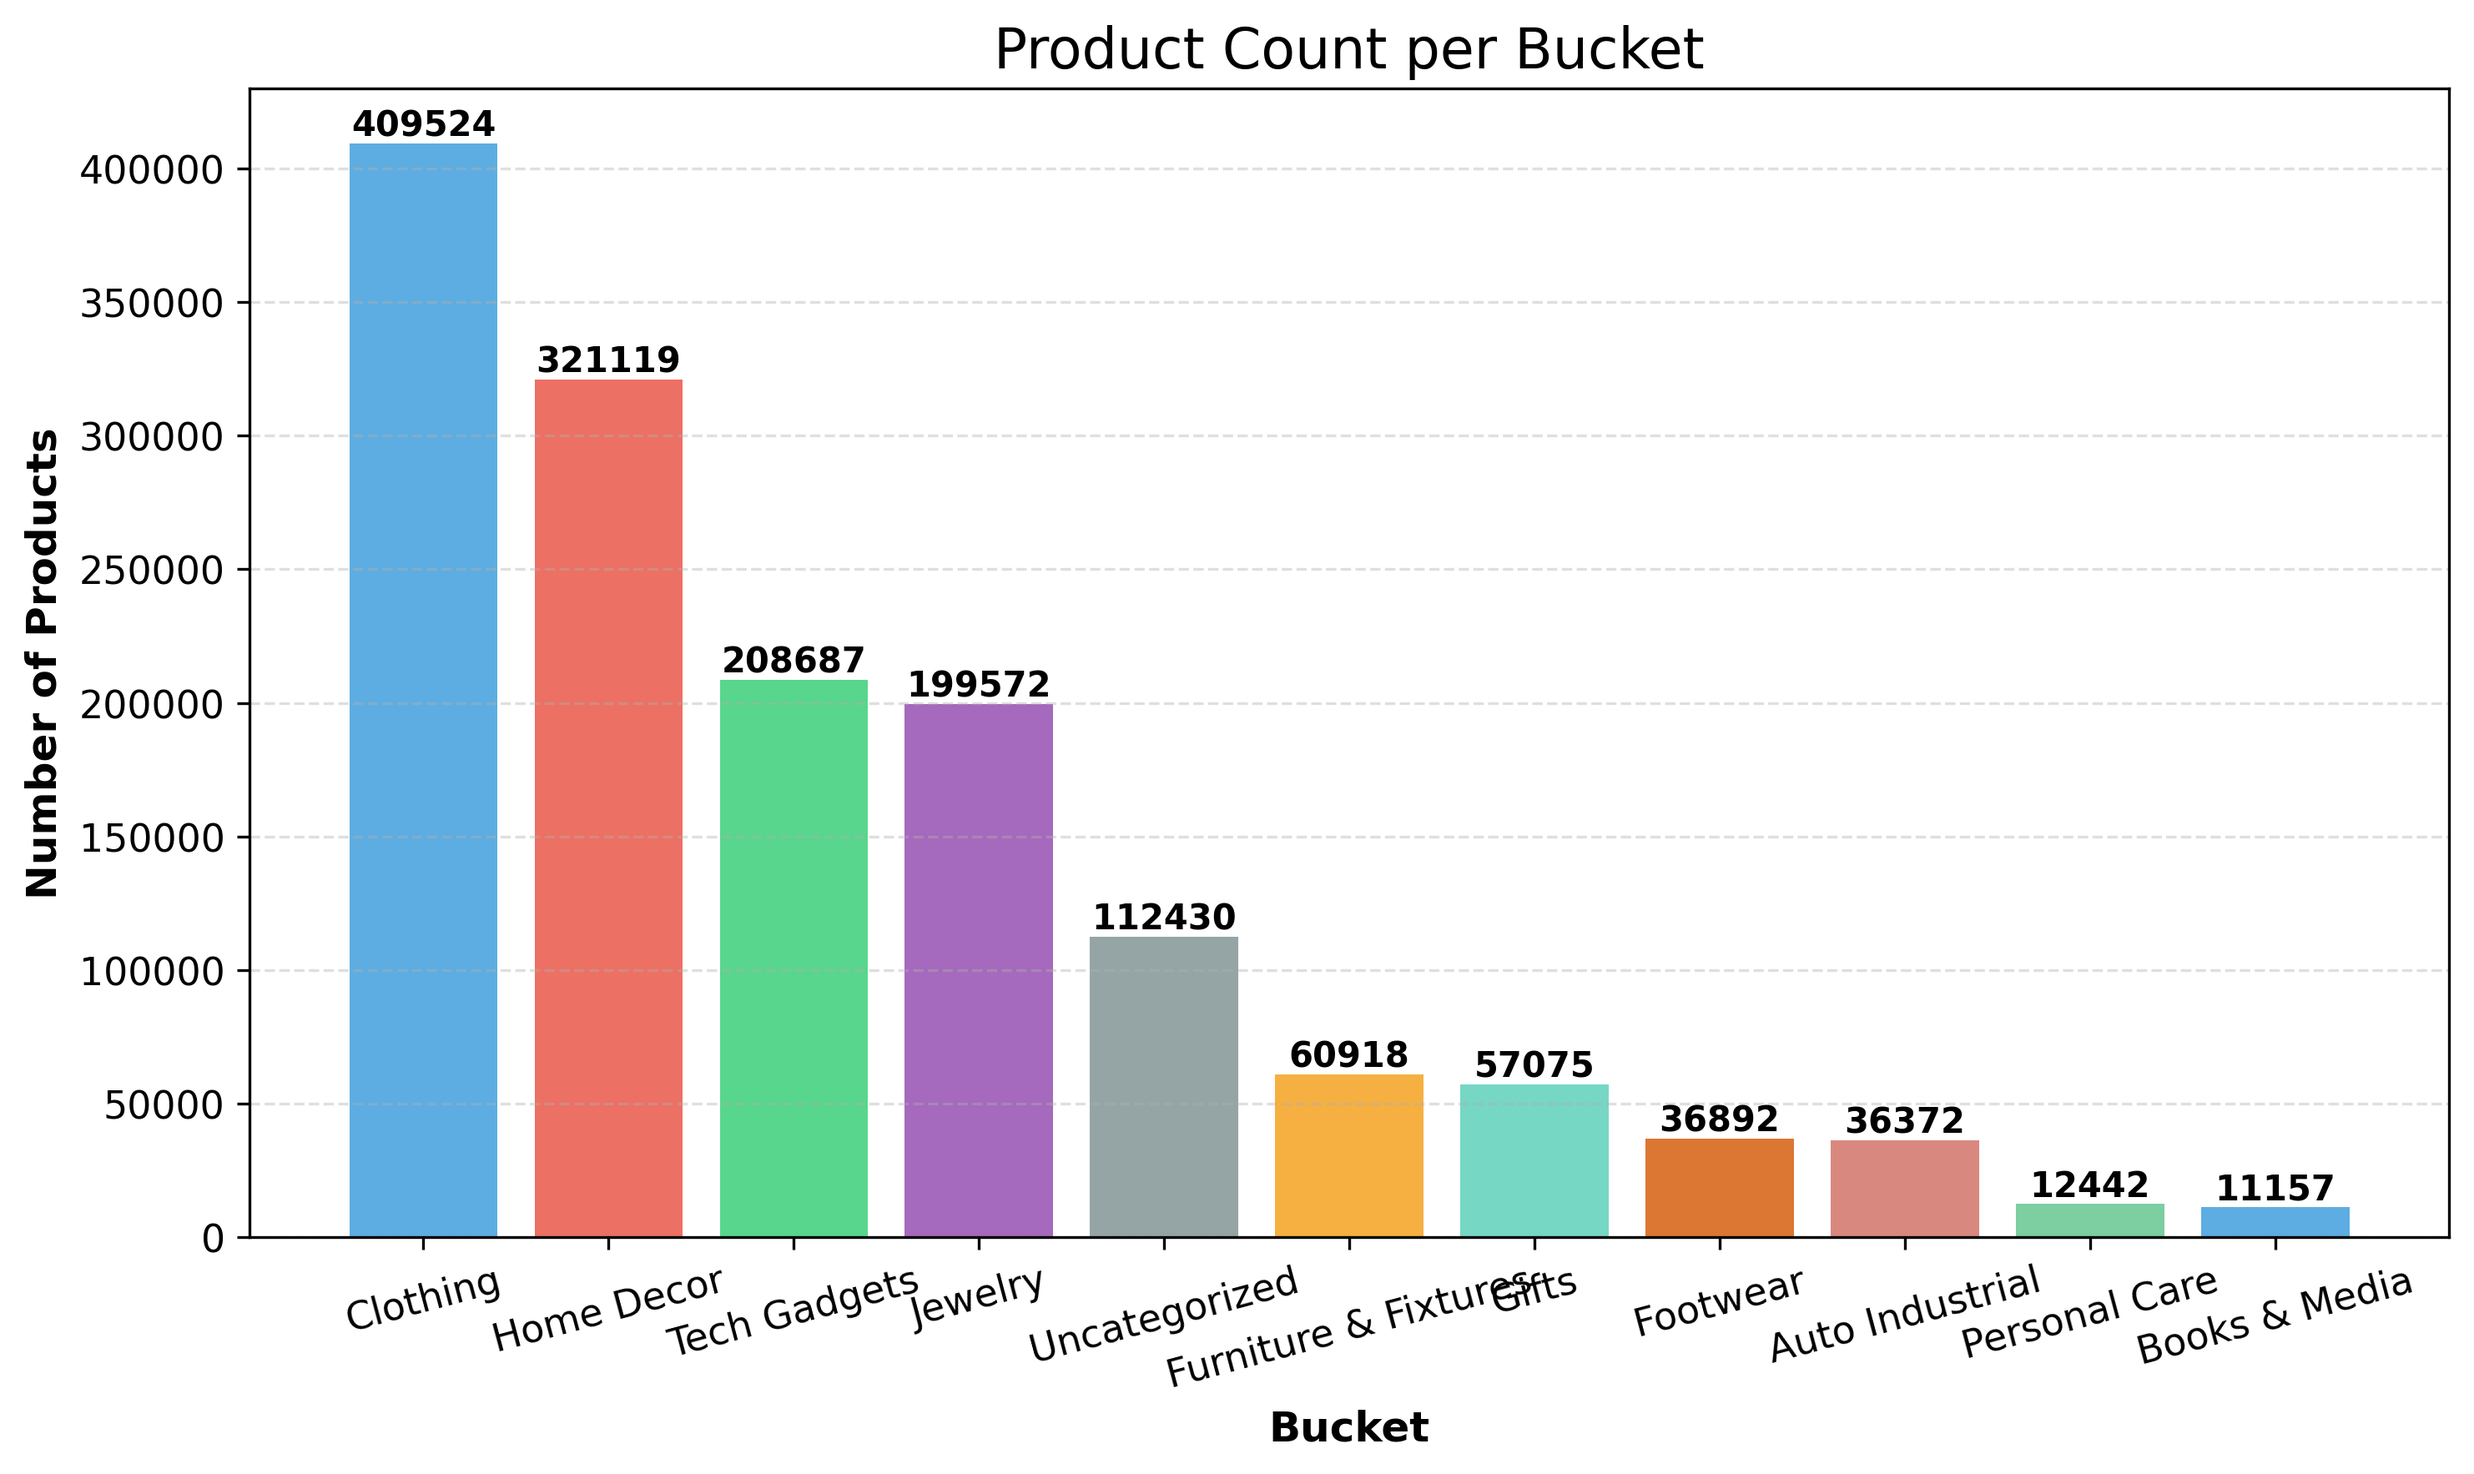
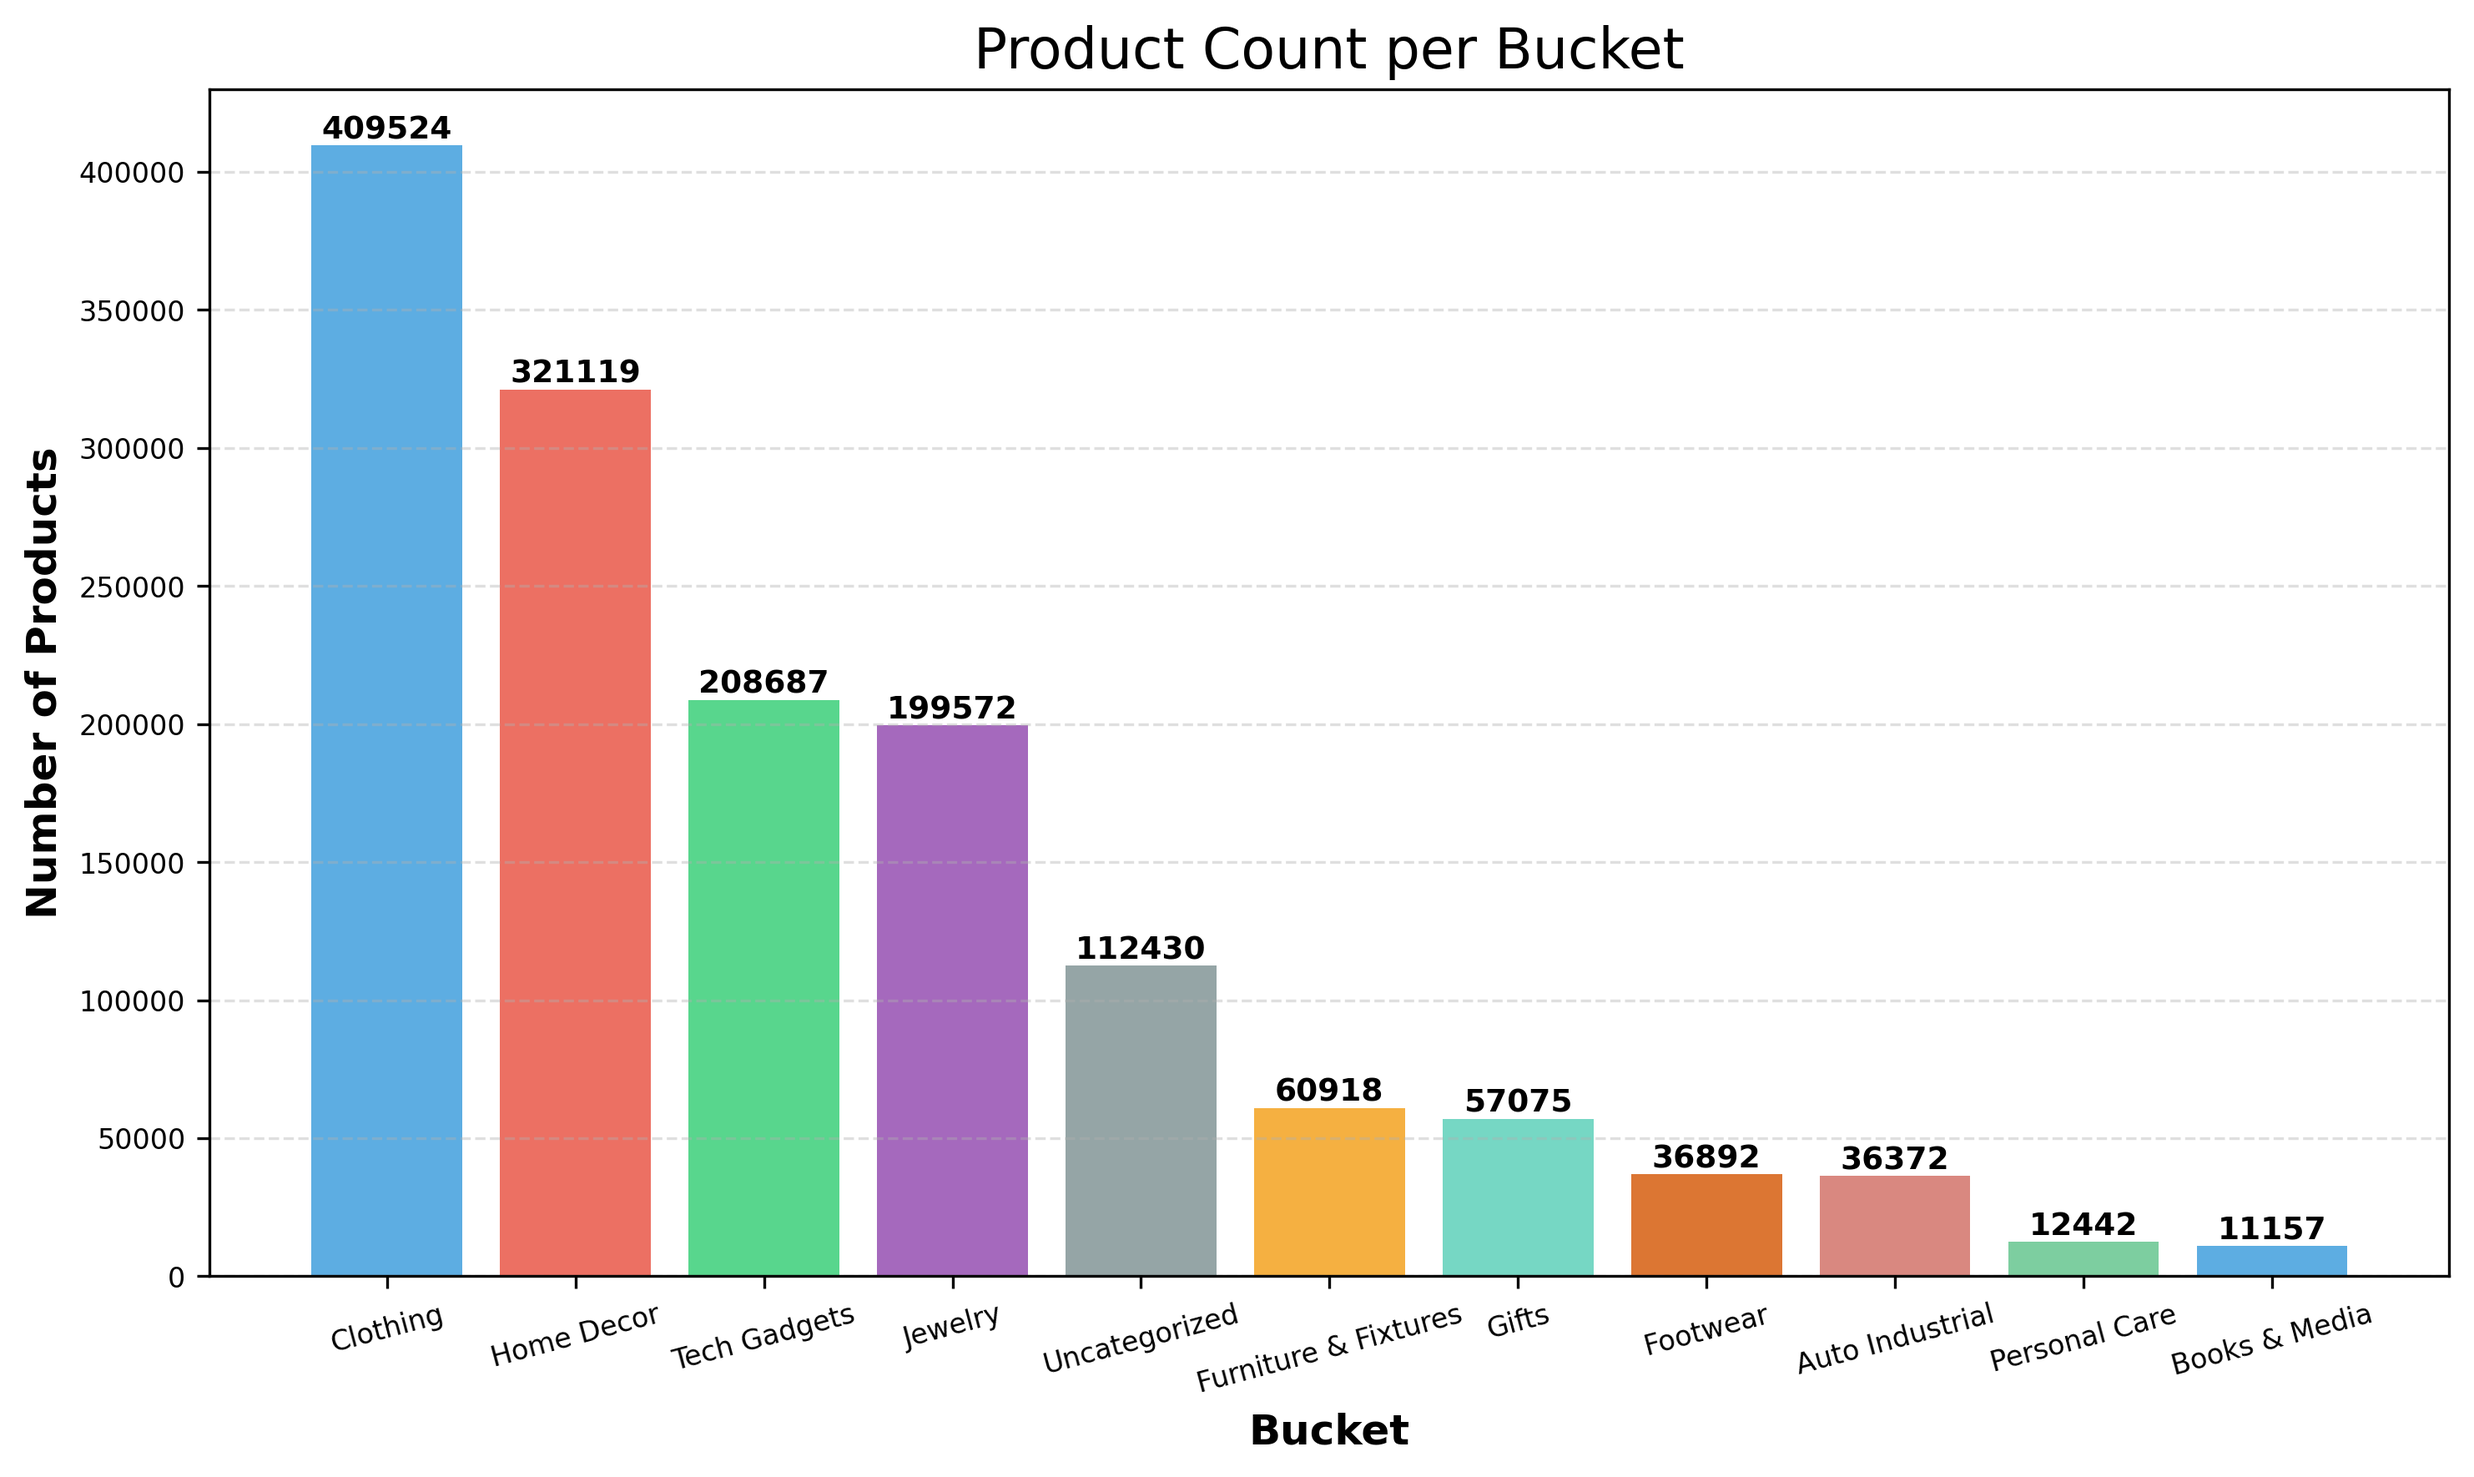
Better Graph 📊

Changed region(s): [[0.0, 0.0623, 0.9929, 0.996], [0.3723, 0.0, 0.7137, 0.0623]]

diff --git a/scripts_amazon/bucketing.py b/scripts_amazon/bucketing.py
@@ -129,6 +129,11 @@ for label, count in bucket_counts.items():
 #     print(f"📝 DESCRIPTION: {row['DESCRIPTION']}")
 #     print(f"📌 BULLETS    : {row['BULLET_POINTS']}\n{'-'*80}")
 
+# === Step 6: Save Final Bucket Counts to CSV ===
+bucket_df = pd.DataFrame(list(bucket_counts.items()), columns=['Bucket', 'Count'])
+bucket_df.to_csv('./data/amazon/final_bucket_plot.csv', index=False)
+
+
 # === Step 7: Visualization ===
 plt.figure(figsize=(10, 6))
 labels = list(bucket_counts.keys())
@@ -143,8 +148,8 @@ for bar in bars:
 plt.title("Product Count per Bucket", fontsize=16)
 plt.xlabel("Bucket", fontsize=12, fontweight='bold')
 plt.ylabel("Number of Products", fontsize=12, fontweight='bold')
-plt.xticks(rotation=15, fontsize=11)
-plt.yticks(fontsize=11)
+plt.xticks(rotation=15, fontsize=9)
+plt.yticks(fontsize=8)
 plt.tight_layout()
 plt.grid(axis='y', linestyle='--', alpha=0.4)
 plt.savefig('./figures/amazon/bucket_distribution.png', dpi=300, bbox_inches='tight')
